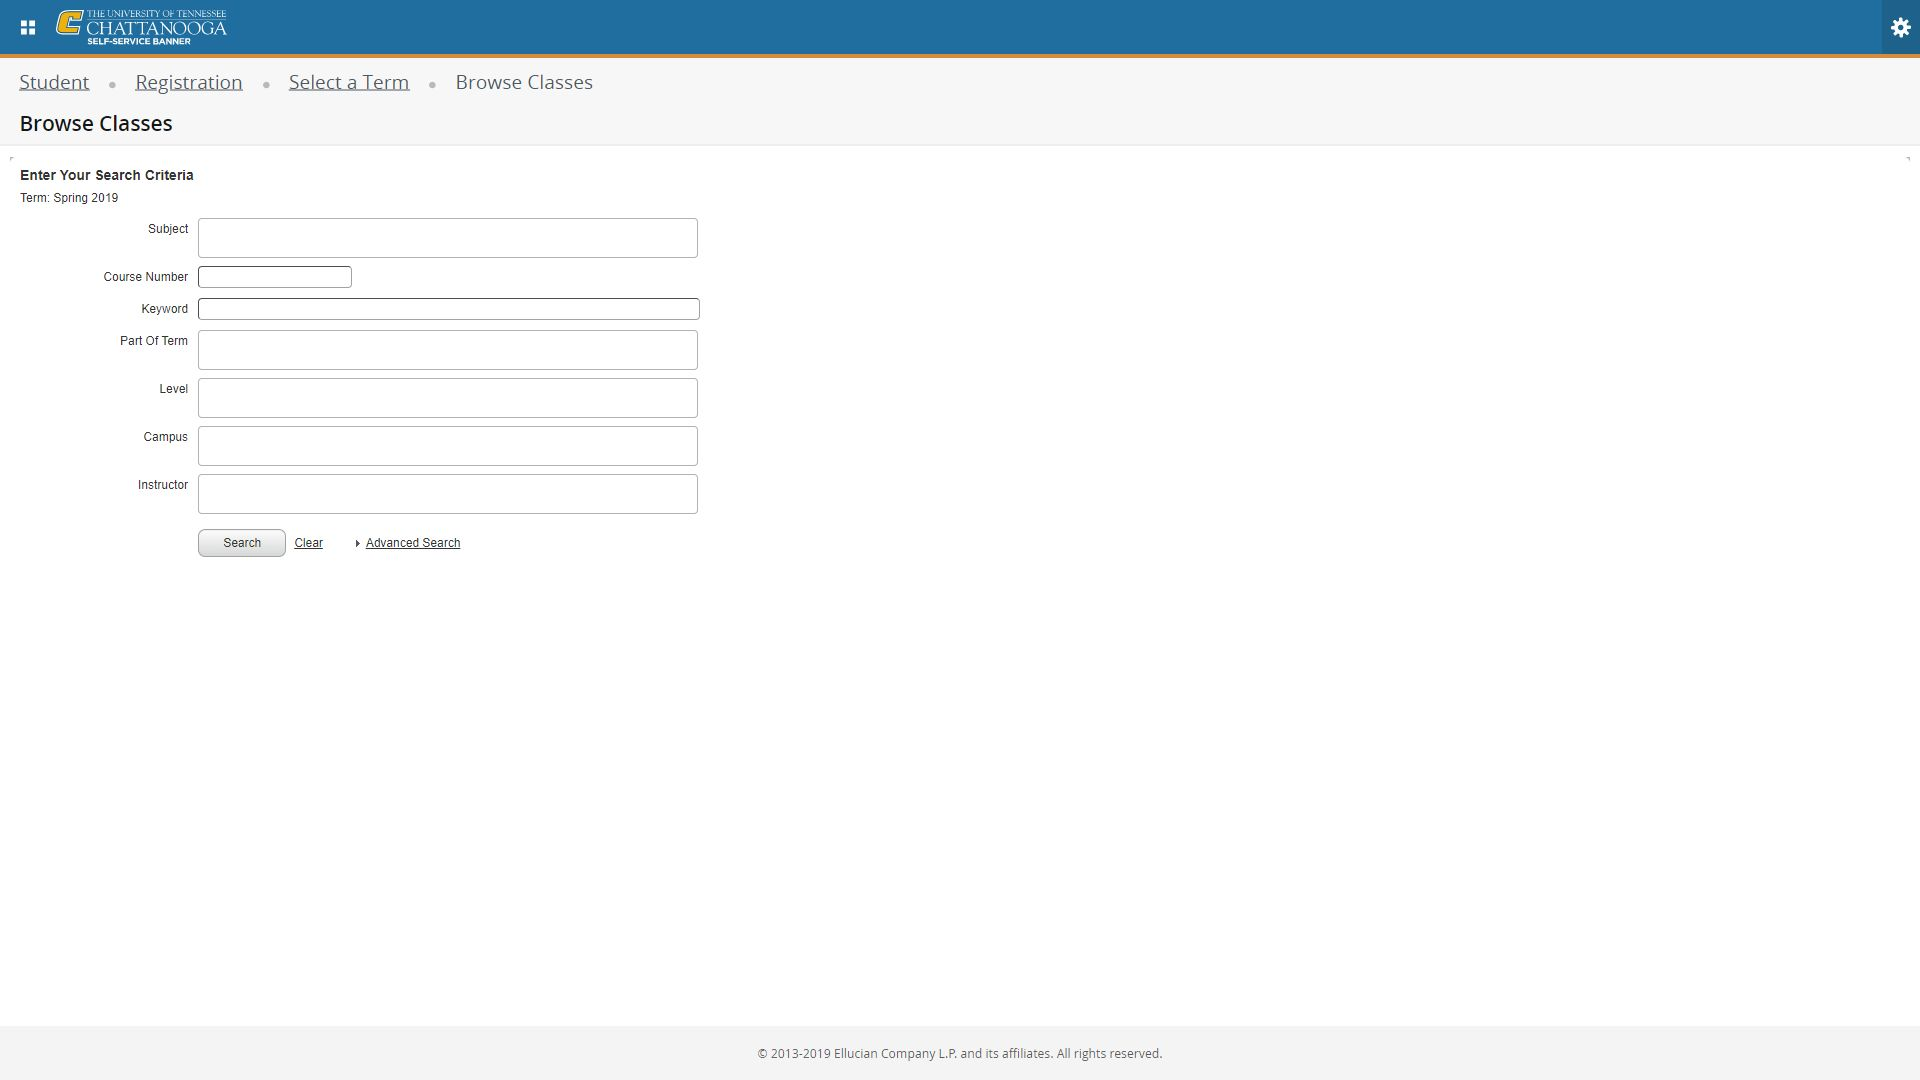
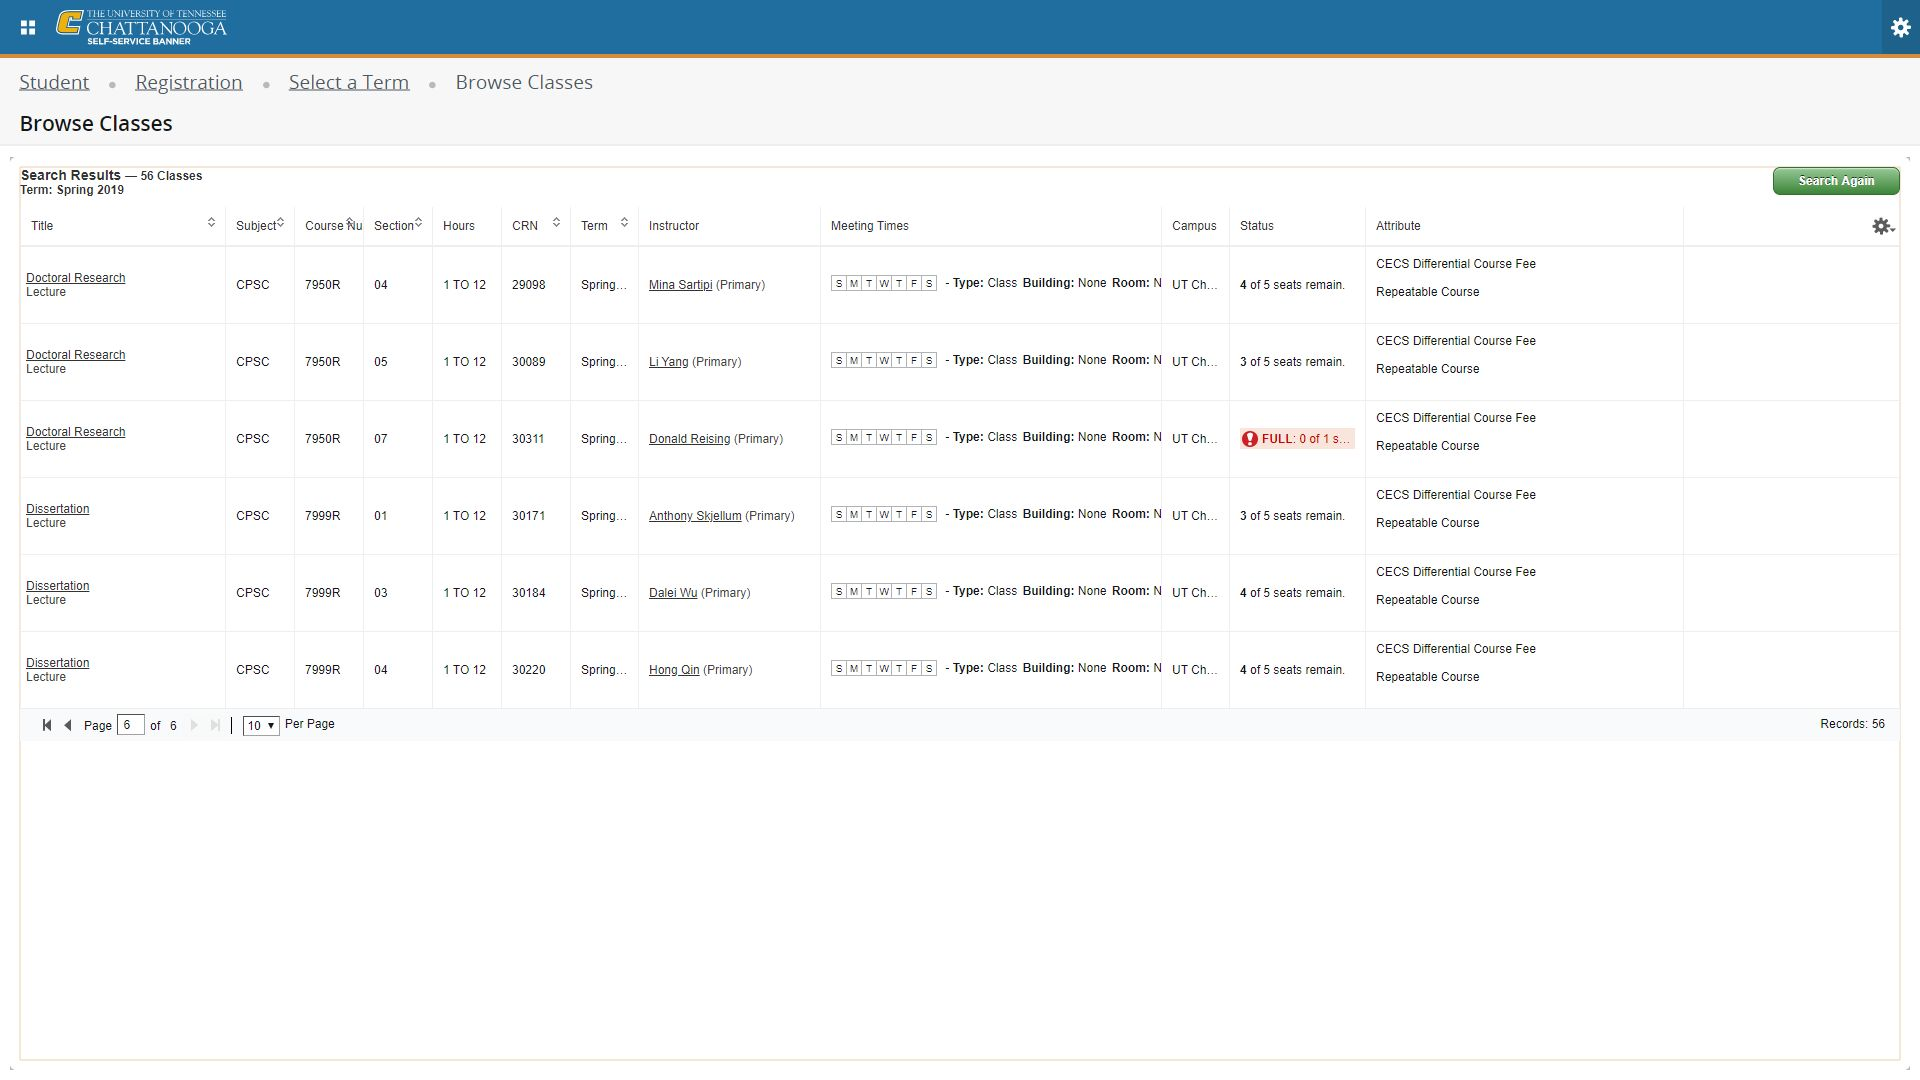
Traversing and reading class times

diff --git a/app.js b/app.js
@@ -7,6 +7,7 @@ async function run() {
   //const browser = await puppeteer.launch();
   const browser = await puppeteer.launch({headless: false});
   const page = await browser.newPage();
+  page.on('console', msg => console.log('PAGE LOG:', msg.text()));
 
   console.log("The Process has started....");
   await page.setViewport({ width: 1920, height: 1080 });
@@ -52,8 +53,41 @@ async function run() {
   await Promise.all([
     // page.waitForNavigation(waitOptions),
     page.click("#search-go"),
-    page.waitForNavigation({ waitUntil: 'networkidle2' }),
+    //page.waitForNavigation({ waitUntil: 'networkidle2' }),
+    page.waitForSelector(".meeting")
   ]);
+
+  while(true) {
+    await page.evaluate(() => {
+      // Class "meeting" holds all the info in the first "span" tag
+      var x = document.getElementsByClassName("meeting");
+      for (var i = 0; i < x.length; i++) {
+        console.log(x[i].children[1].innerText);
+      }
+      return;
+    });
+
+
+    // Button with title "next" continues. If hasAttribute "disabled" then stop
+    var res = await page.evaluate(() => {
+      // Class "meeting" holds all the info in the first "span" tag
+      var x = document.getElementsByClassName("next");
+      if(x[0].hasAttribute("disabled")) {
+        return false
+      }
+      return true;
+    });
+    if(res == false) {
+      break;
+    }
+
+    await Promise.all([
+      // page.waitForNavigation(waitOptions),
+      page.click(".next"),
+      //page.waitForNavigation({ waitUntil: 'networkidle2' }),
+      await page.waitFor(1000)
+    ]);
+  }
 
   await Promise.all([
     page.screenshot({ path: './public/images/4.jpg', type: 'jpeg', fullPage: true }),
